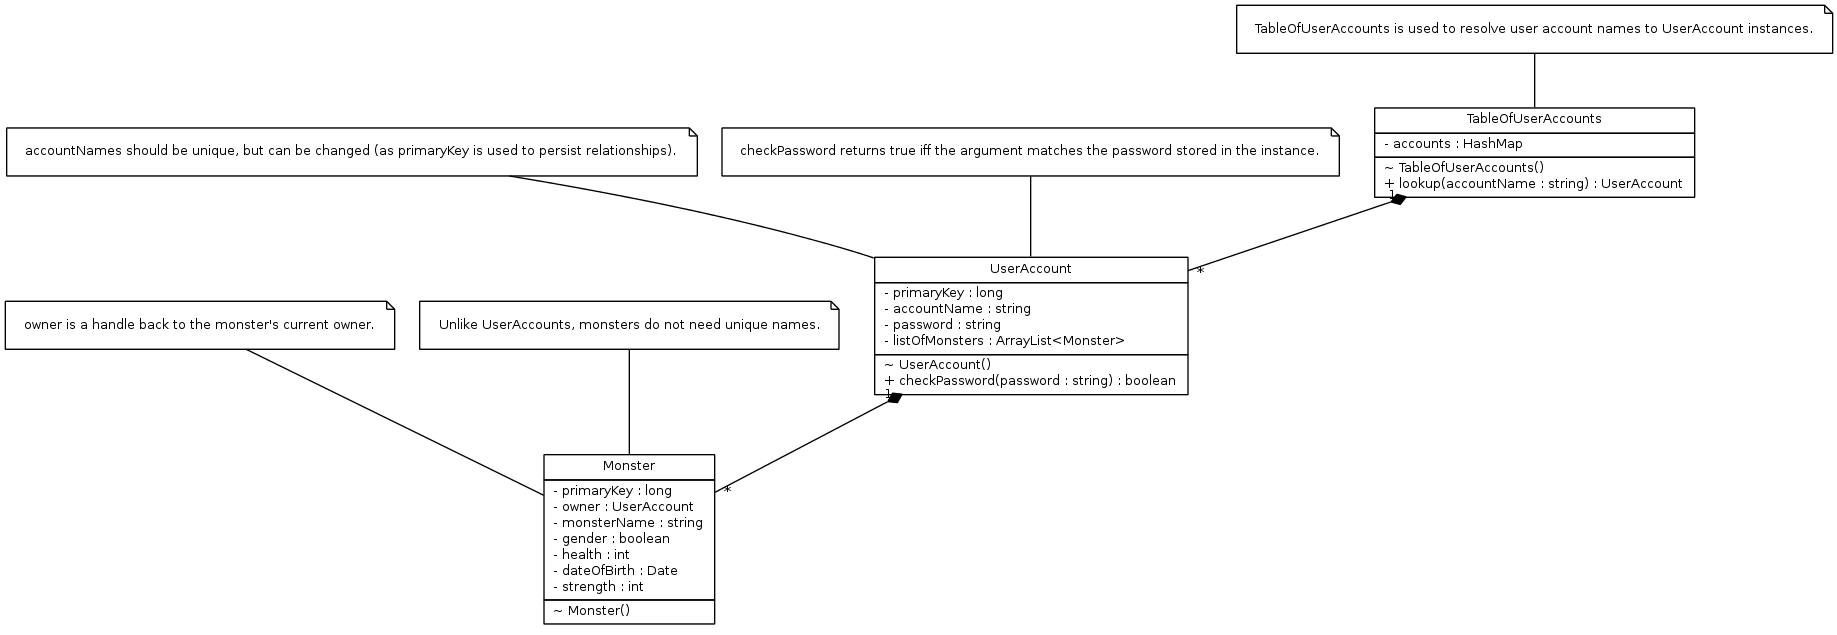
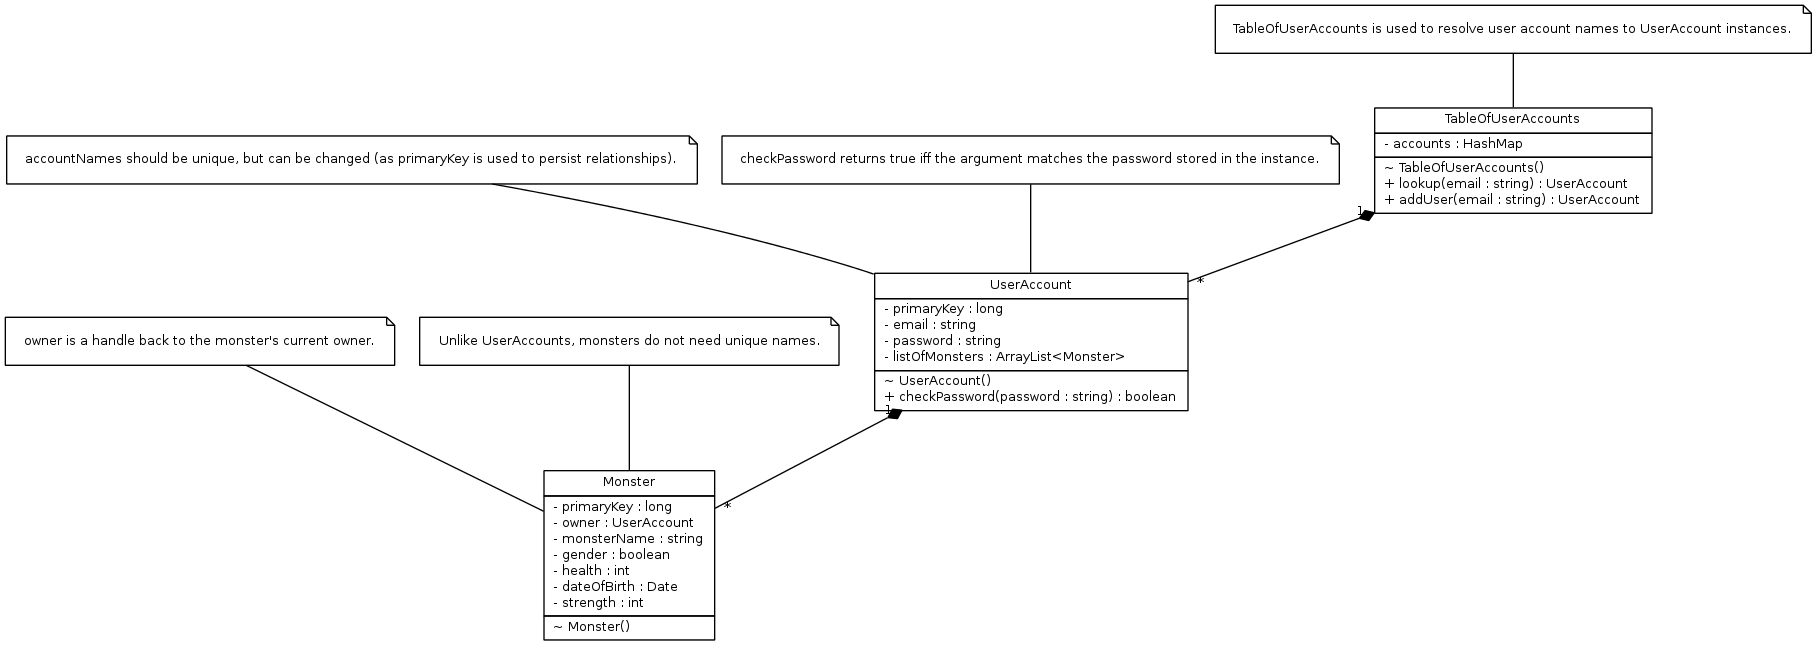
Updated class diagram to reflect change to emails for user names.

diff --git a/UMLGraph/ClassDiagram.java b/UMLGraph/ClassDiagram.java
@@ -18,7 +18,7 @@ class ArrayList<Monster>{}
 */
 class UserAccount {
 	private long primaryKey;
-	private string accountName;
+	private string email;
 	
 	private string password;
 	private ArrayList<Monster> listOfMonsters;
@@ -32,7 +32,8 @@ class UserAccount {
 class TableOfUserAccounts {
 	private HashMap accounts;
 
-	public UserAccount lookup(string accountName){}
+	public UserAccount lookup(string email){}
+	public UserAccount addUser(string email){}
 }
 
 /**
